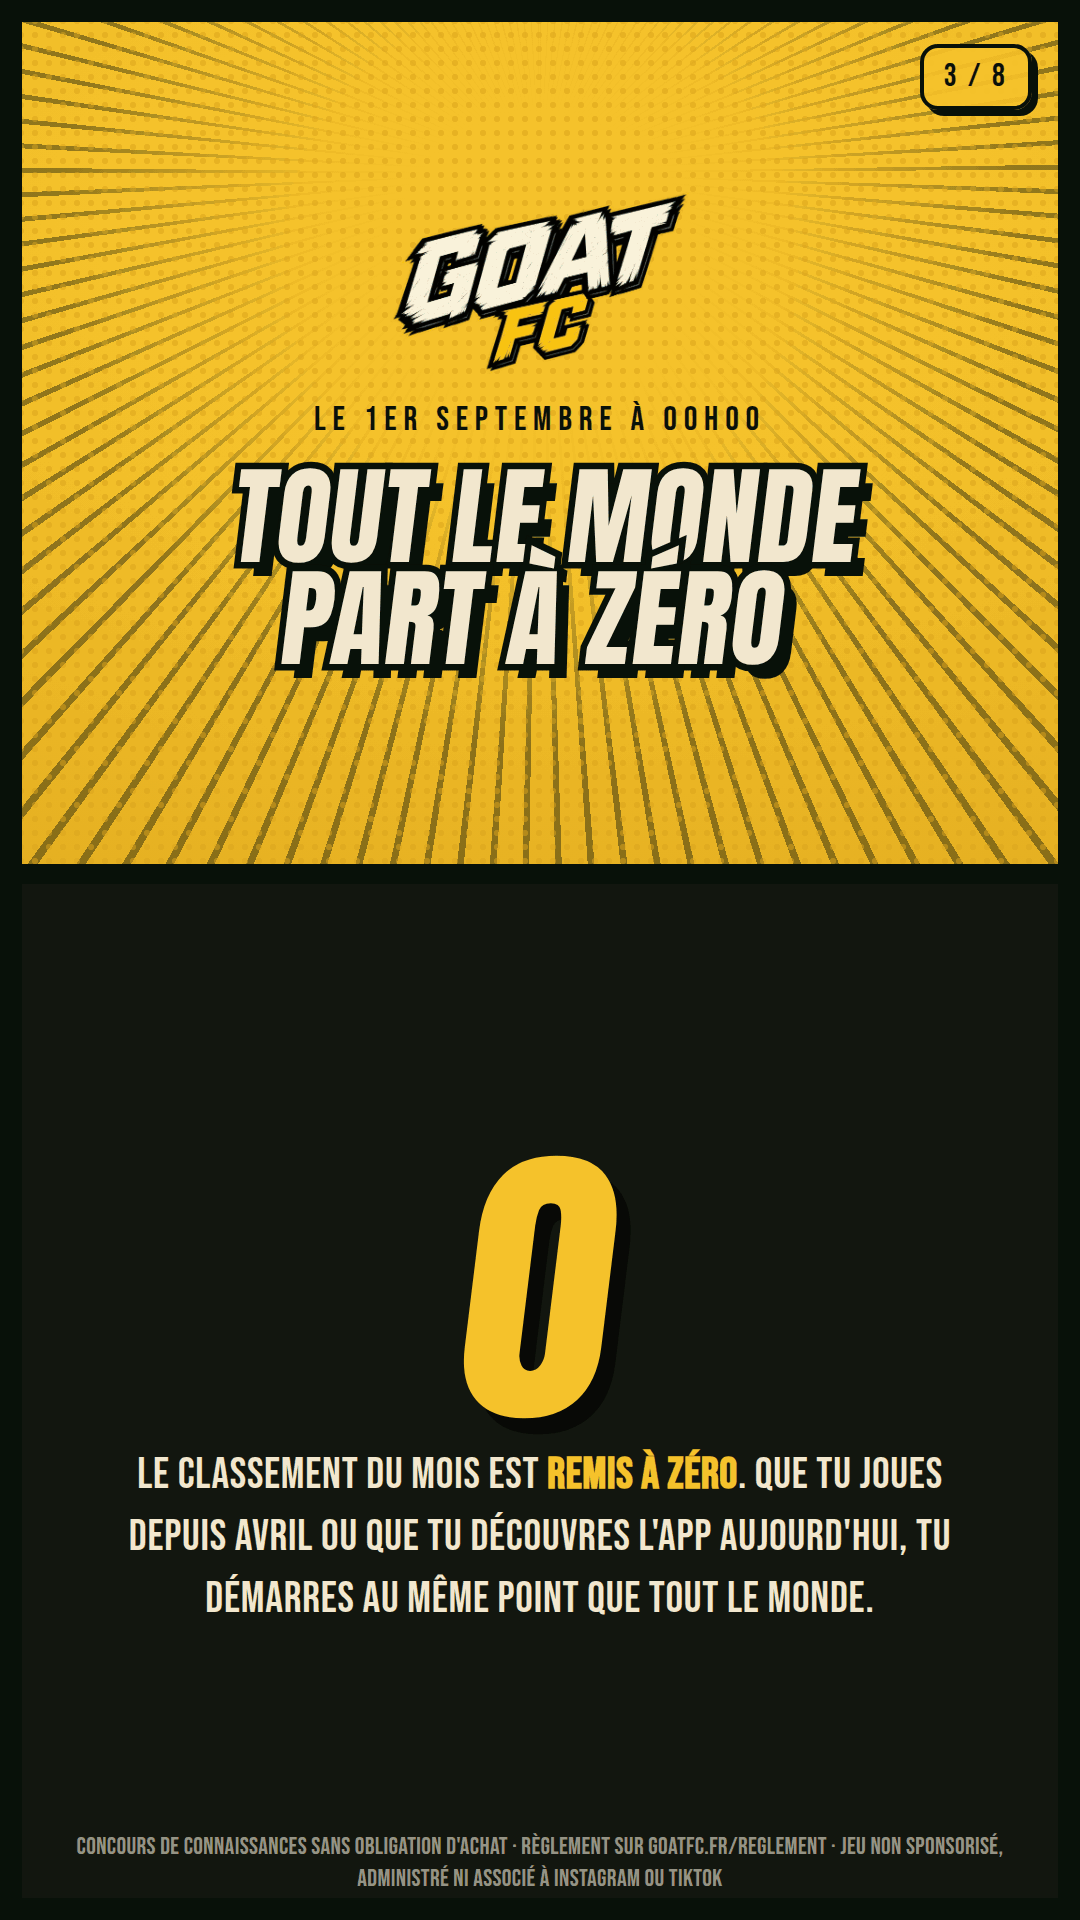
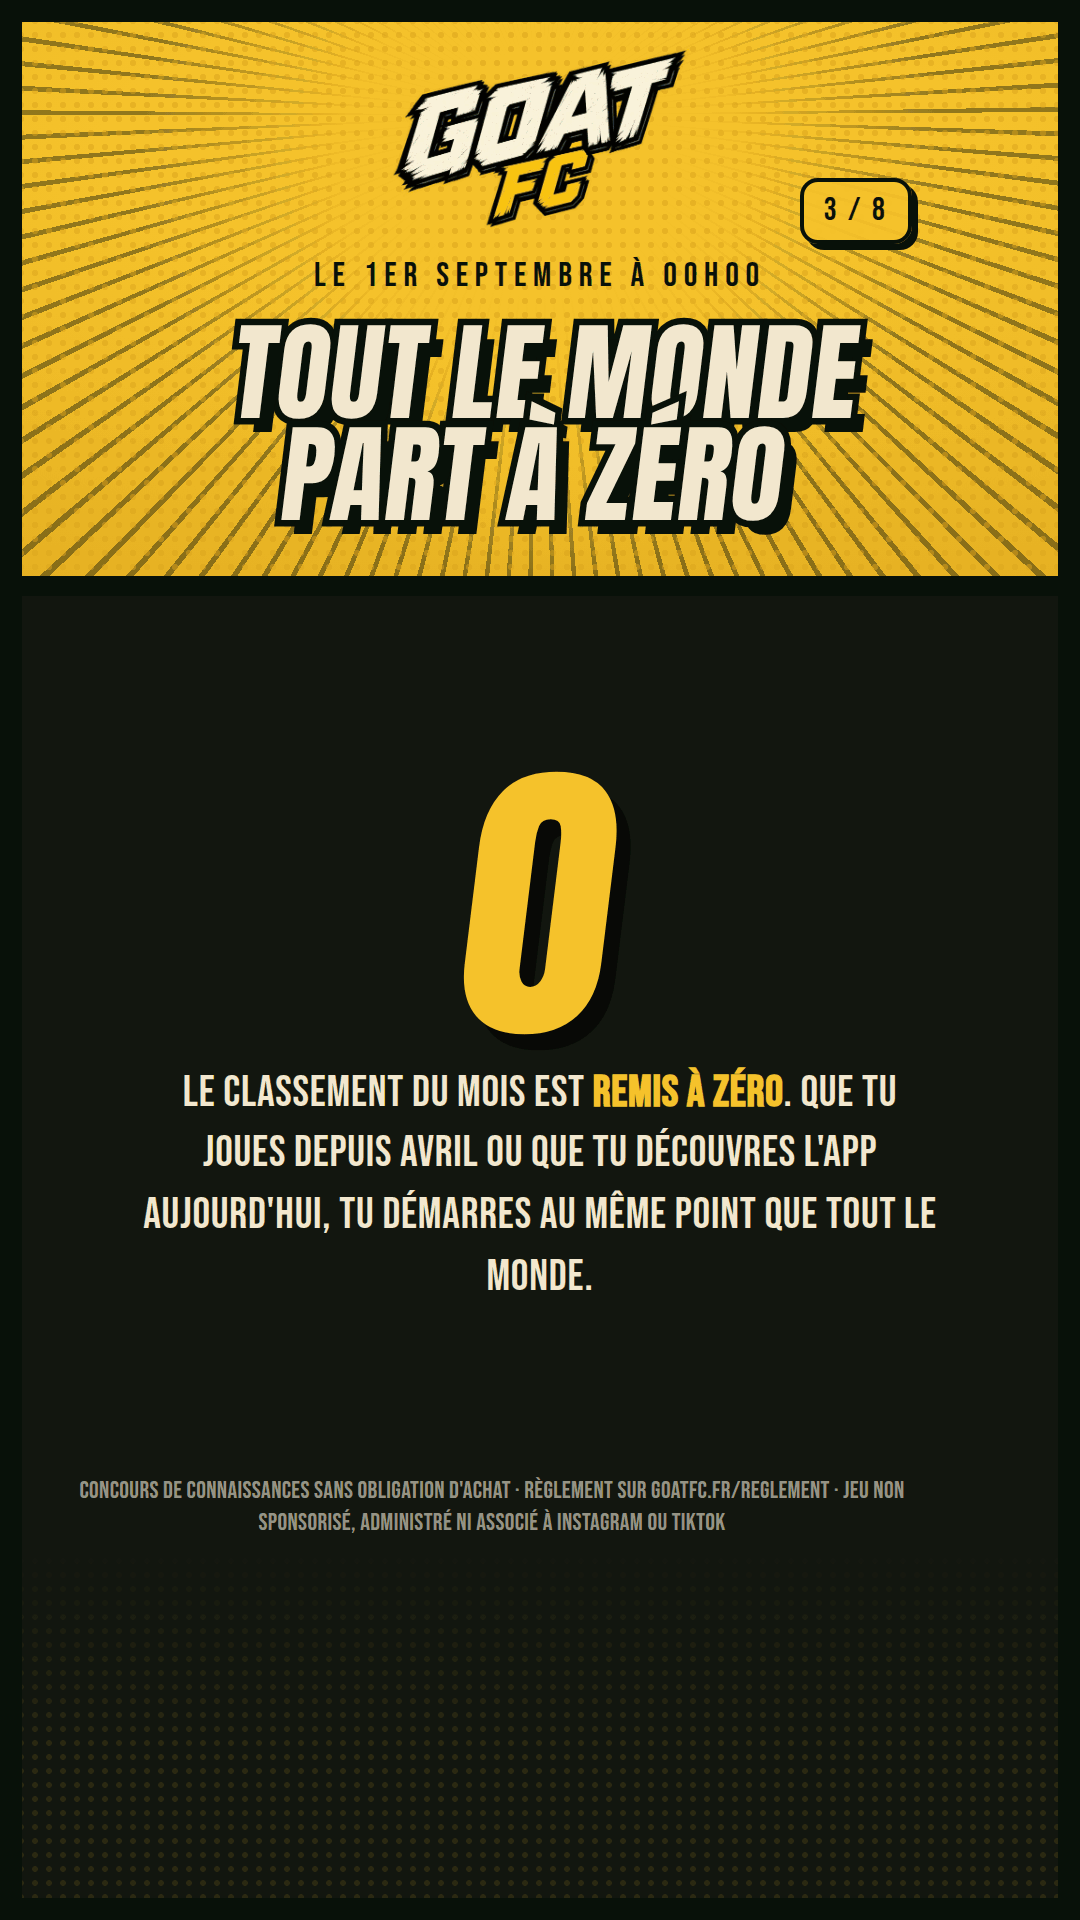
Visuels : le texte sort de la zone que la plateforme recouvre
Signalement : sur Instagram et TikTok, le pseudo, la legende et les boutons
se posent PAR-DESSUS l'image. Exact, et mesurable — mes mentions legales
etaient a 12 px du bas, c'est-a-dire sous la legende. Elles etaient donc
invisibles la ou elles sont le plus necessaires, et un visuel de concours
dont les mentions ne se lisent pas ne vaut pas mieux qu'un visuel sans
mentions.

── LES ZONES, EN CONSTANTES ──────────────────────────────────────────

150 px en haut (barre de recherche, entete de story), 380 px en bas
(legende, pseudo, son), 140 px a droite (boutons d'action). En pixels de
sortie.

Volontairement MOINS large que les « safe zones » publicitaires de TikTok,
qui reservent pres de 500 px en bas : ce carrousel est d'abord un carrousel
de FIL Instagram, ou rien ne recouvre l'image. On protege le texte sans
amputer la composition de moitie pour un cas qui n'est pas le principal.

Meme raison pour le format 1080x1350 : c'est un format de FIL, l'interface
s'y place SOUS l'image. Il ne recoit pas ces marges.

── LA ZONE DE DROITE N'EST PAS PLEINE HAUTEUR ────────────────────────

La colonne like / commentaire / partage est ancree EN BAS. La premiere
version du controle la traitait comme pleine hauteur et signalait les
TITRES, poses a 20 % de hauteur. La suivre aurait conduit a retrecir chaque
titre pour eviter un recouvrement qui n'existe pas. Un controle trop severe
se fait desobeir, puis ignorer — et il emporte les vrais signalements avec
[…]

diff --git a/public/sw.js b/public/sw.js
@@ -4,7 +4,7 @@
 // IMPORTANT : bumper CACHE_NAME à chaque deploy pour forcer le navigateur
 // à détecter un nouveau SW (les changements de fichier suffisent en théorie
 // mais ça garantit un install propre côté PWA mobile installée).
-const CACHE_NAME = "goatfc-v550-2026-08-15";
+const CACHE_NAME = "goatfc-v551-2026-08-15";
 
 // Install : on prend la main tout de suite sans attendre la fermeture des onglets
 self.addEventListener("install", (event) => {
